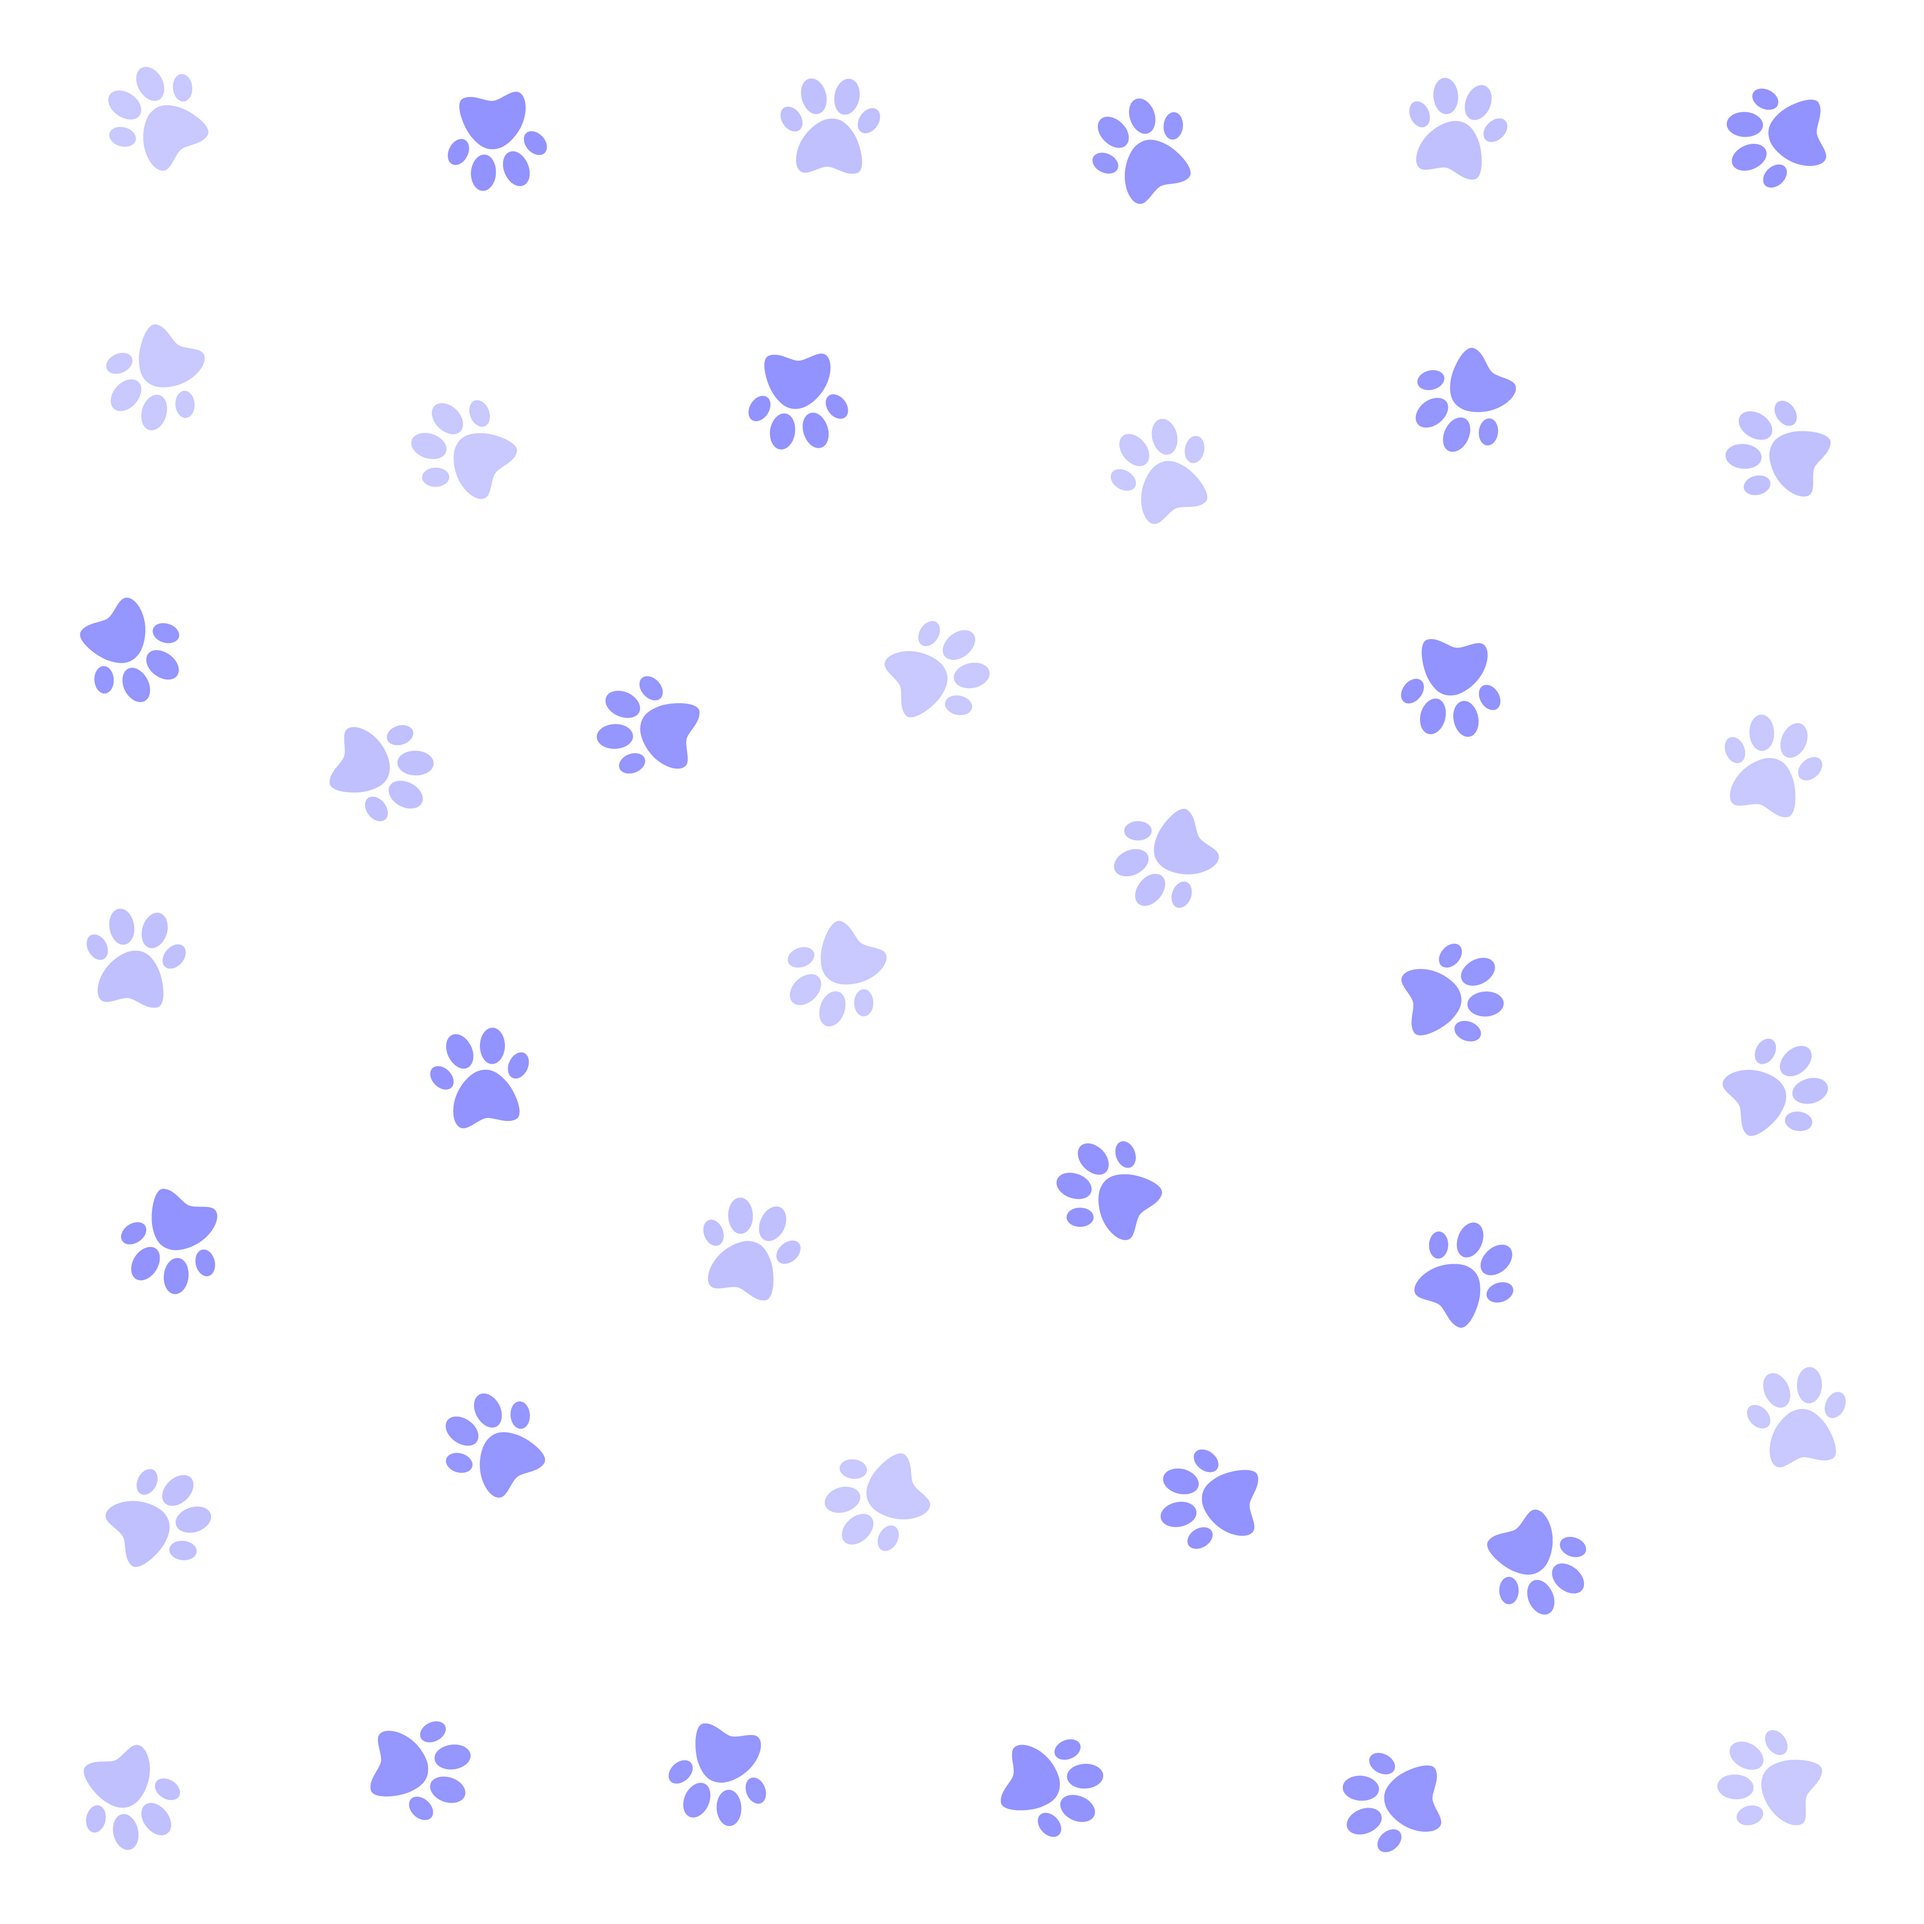
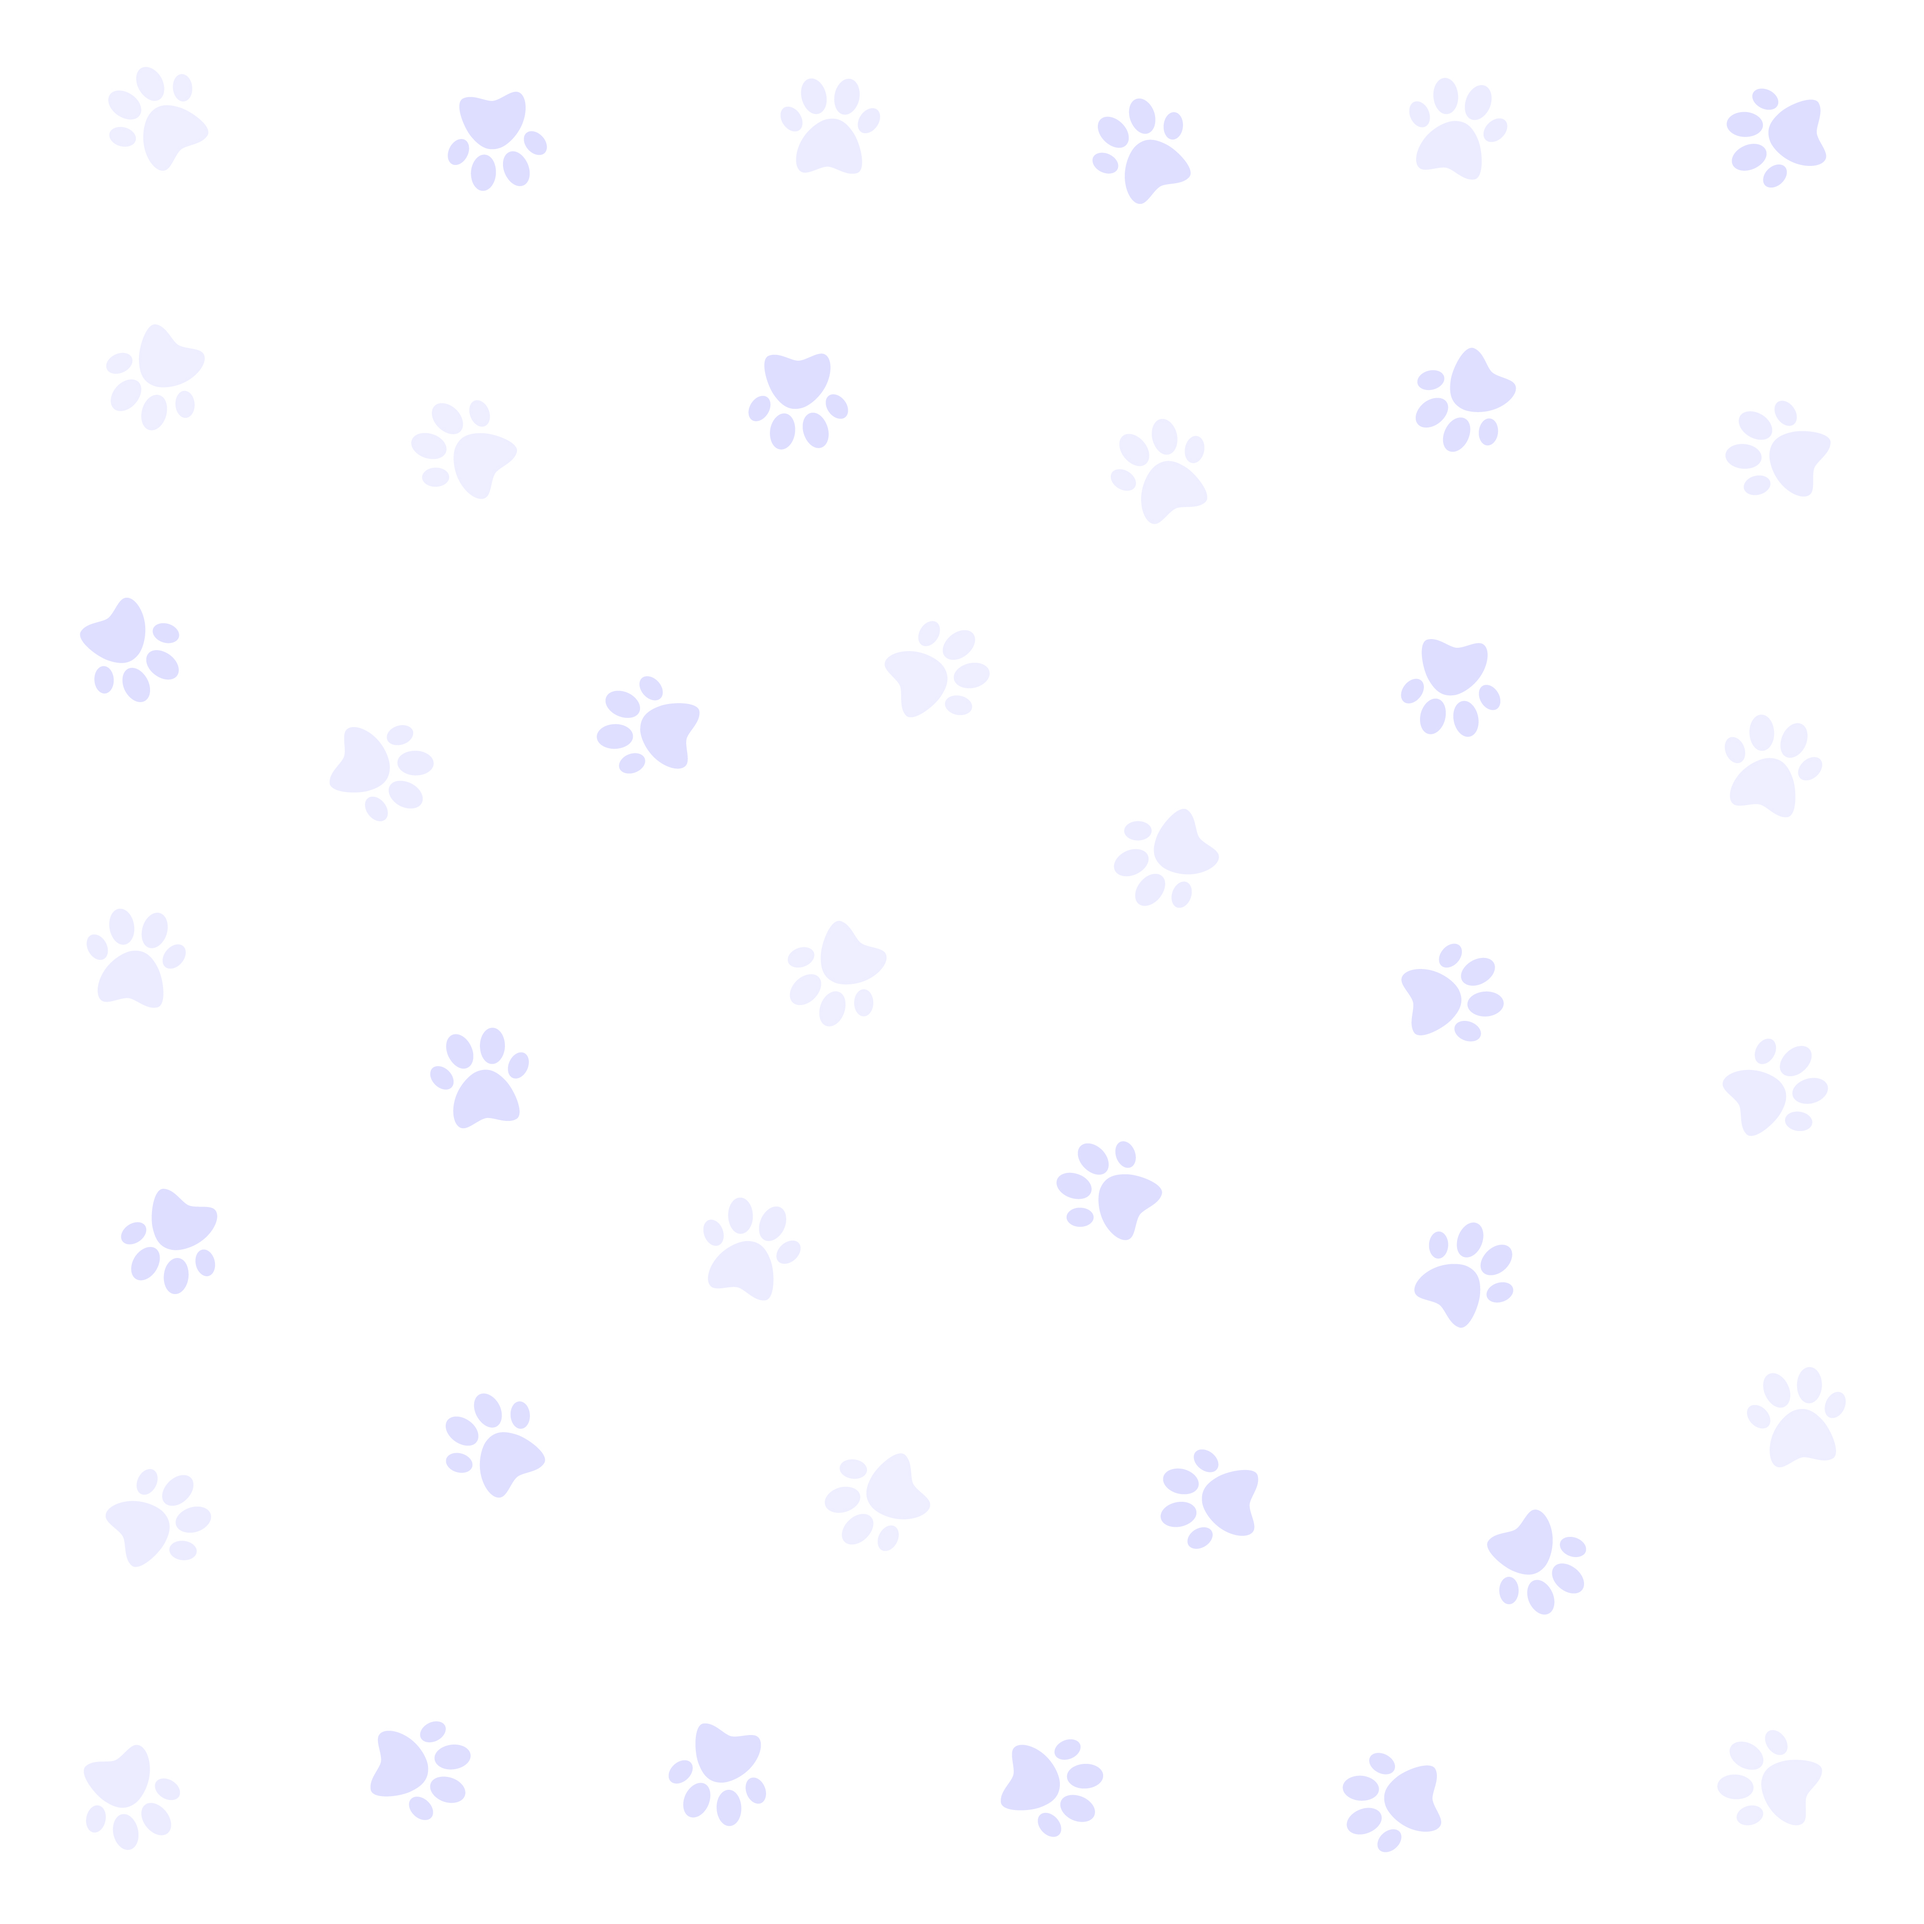
se arregla el footer para el rol administrador y se modifica el backgraound

diff --git a/Views/css/style.css b/Views/css/style.css
@@ -397,7 +397,7 @@ button {
 }
 
 .minhe{
-  min-height: 693px !important;
+  min-height: 703px !important;
 }
 
 .section-title {
@@ -792,6 +792,8 @@ section.dashboard{
   font-size: 16px;
   line-height: 43px;
   padding: 0 20px;
+  color: var(--negro)!important;
+  border-bottom: 3px solid transparent !important;
 }
 .main-nav .nav-item .nav-link span {
   margin-left: 4px;
@@ -1530,6 +1532,13 @@ li.nav-item.dropdown.dropdown-slide:hover a.nav-link.dropdown-toggle{
   background: var(--Azul-medio);
   color: #fff;
 }
+
+.navbar-light .navbar-nav .nav-link:hover{
+  border-bottom: 3px solid var(--Azul-claro) !important;
+  box-sizing: border-box;
+  transition: 0.2s !important;
+}
+
 .product-details .content .nav .nav-item .nav-link.active {
   background: var(--Azul-medio);
 }
@@ -7024,6 +7033,9 @@ h4,
 h5,
 h6.h1 {
   color: #020b43;
+  display: block;
+  width: 100%;
+  text-align: center;
 }
 
 .dib {

diff --git a/Views/clientSite/fundacion.php b/Views/clientSite/fundacion.php
@@ -71,6 +71,7 @@
 				</div>
 				<div class="col-lg-8">
 					<article class="single-post">
+						<a class="d-block w-100 text-right font-weight-bold" href="fundaciones.php"><i class="fa-solid fa-arrow-left mr-2"></i>Volver</a>
 						<h2 class="text-center mb-4">Acerca de Patitas Solidarias </h2>
 						<div class="row ">
 							<div class="col-lg-12">
@@ -133,6 +134,13 @@
 	<?php
 	include("footer-include.php")
 	?>
+
+	<!-- 
+font awesome script
+=====================================-->
+
+<script src="https://kit.fontawesome.com/3b8b956f1a.js" crossorigin="anonymous"></script>
+
 
 	<!-- 
 Essential Scripts

diff --git a/Views/homeAdministrador/reporte_clientes.php b/Views/homeAdministrador/reporte_clientes.php
@@ -73,7 +73,7 @@ require_once("../../Controllers/mostrarInfoAdmin.php");
 =            User Profile            =
 ===================================-->
 
-  <section class="dashboard section">
+  <section class="dashboard section minhe">
     <!-- Container Start -->
     <div class="container-fluid">
       <!-- Row Start -->

diff --git a/Views/homeAdministrador/reporte_fundaciones.php b/Views/homeAdministrador/reporte_fundaciones.php
@@ -73,7 +73,7 @@ require_once("../../Controllers/mostrarInfoAdmin.php");
 =            User Profile            =
 ===================================-->
 
-  <section class="dashboard section">
+  <section class="dashboard section minhe">
     <!-- Container Start -->
     <div class="container-fluid">
       <!-- Row Start -->

diff --git a/Views/homeAdministrador/ver_administradores.php b/Views/homeAdministrador/ver_administradores.php
@@ -55,7 +55,7 @@ require_once("../../Controllers/mostrarInfoAdmin.php");
 =            User Profile            =
 ===================================-->
 
-  <section class="dashboard section">
+  <section class="dashboard section minhe">
     <!-- Container Start -->
     <div class="container-fluid">
       <!-- Row Start -->

diff --git a/Views/homeAdministrador/ver_clientes.php b/Views/homeAdministrador/ver_clientes.php
@@ -55,7 +55,7 @@ require_once("../../Controllers/mostrarInfoAdmin.php");
 =            User Profile            =
 ===================================-->
 
-  <section class="dashboard section">
+  <section class="dashboard section minhe">
     <!-- Container Start -->
     <div class="container-fluid">
       <!-- Row Start -->

diff --git a/Views/homeAdministrador/ver_fundaciones.php b/Views/homeAdministrador/ver_fundaciones.php
@@ -55,7 +55,7 @@ require_once("../../Controllers/mostrarInfoAdmin.php");
 =            User Profile            =
 ===================================-->
 
-  <section class="dashboard section">
+  <section class="dashboard section minhe">
     <!-- Container Start -->
     <div class="container-fluid">
       <!-- Row Start -->

diff --git a/Views/homeAdministrador/perfil.php b/Views/homeAdministrador/perfil.php
@@ -49,7 +49,7 @@
   <!--==================================
 =            User Profile            =
 ===================================-->
-  <section class="dashboard section">
+  <section class="dashboard section minhe">
     <!-- Container Start -->
     <div class="container-fluid">
       <!-- Row Start -->

diff --git a/Views/homeAdministrador/home.php b/Views/homeAdministrador/home.php
@@ -62,7 +62,7 @@
 <!--==================================
 =            User Profile            =
 ===================================-->
-<section class="dashboard section">
+<section class="dashboard section minhe">
     <!-- Container Start -->
     <div class="container-fluid">
       <!-- Row Start -->

diff --git a/Views/homeAdministrador/modificar_administrador.php b/Views/homeAdministrador/modificar_administrador.php
@@ -51,7 +51,7 @@
 =            User Profile            =
 ===================================-->
 
-    <section class="dashboard section">
+    <section class="dashboard section minhe">
         <!-- Container Start -->
         <div class="container-fluid">
             <!-- Row Start -->

diff --git a/Views/homeAdministrador/registrar_fundacion.php b/Views/homeAdministrador/registrar_fundacion.php
@@ -60,7 +60,7 @@
 =            User Profile            =
 ===================================-->
 
-    <section class="dashboard section">
+    <section class="dashboard section minhe">
         <!-- Container Start -->
         <div class="container-fluid">
             <!-- Row Start -->

diff --git a/Views/homeAdministrador/registrar_usuario.php b/Views/homeAdministrador/registrar_usuario.php
@@ -49,7 +49,7 @@
 =            User Profile            =
 ===================================-->
 
-    <section class="dashboard section">
+    <section class="dashboard section minhe">
         <!-- Container Start -->
         <div class="container-fluid">
             <!-- Row Start -->
